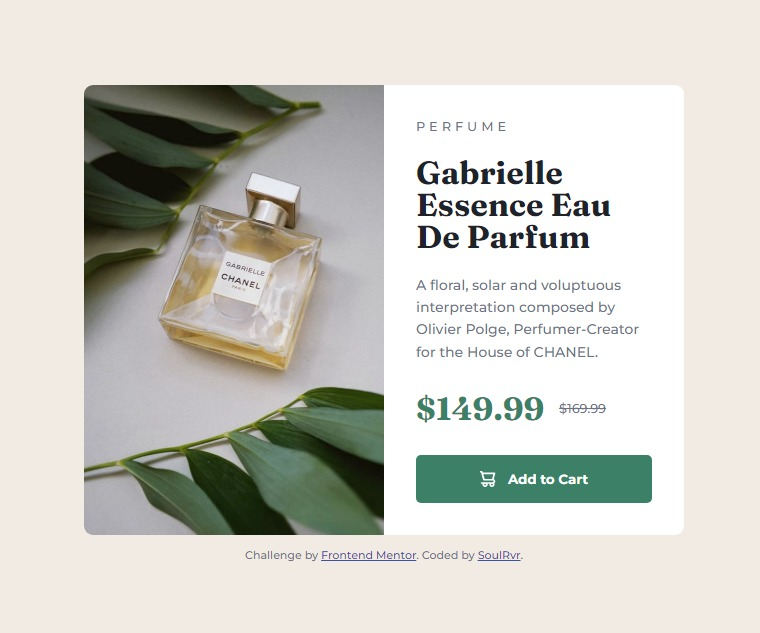
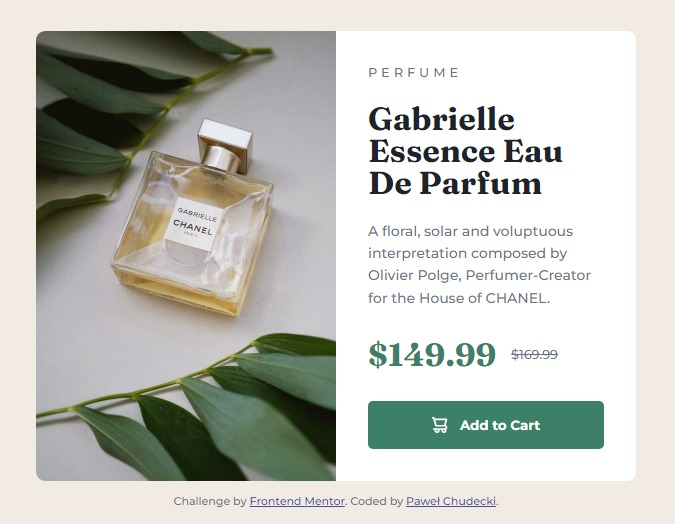
footer and screenshot update

diff --git a/index.html b/index.html
@@ -34,7 +34,10 @@
       Challenge by
       <a href="https://www.frontendmentor.io?ref=challenge" target="_blank"
         >Frontend Mentor</a
-      >. Coded by <a href="#">SoulRvr</a>.
+      >. Coded by
+      <a href="https://www.frontendmentor.io/profile/SoulRvr29"
+        >Paweł Chudecki</a
+      >.
     </footer>
   </body>
 </html>
